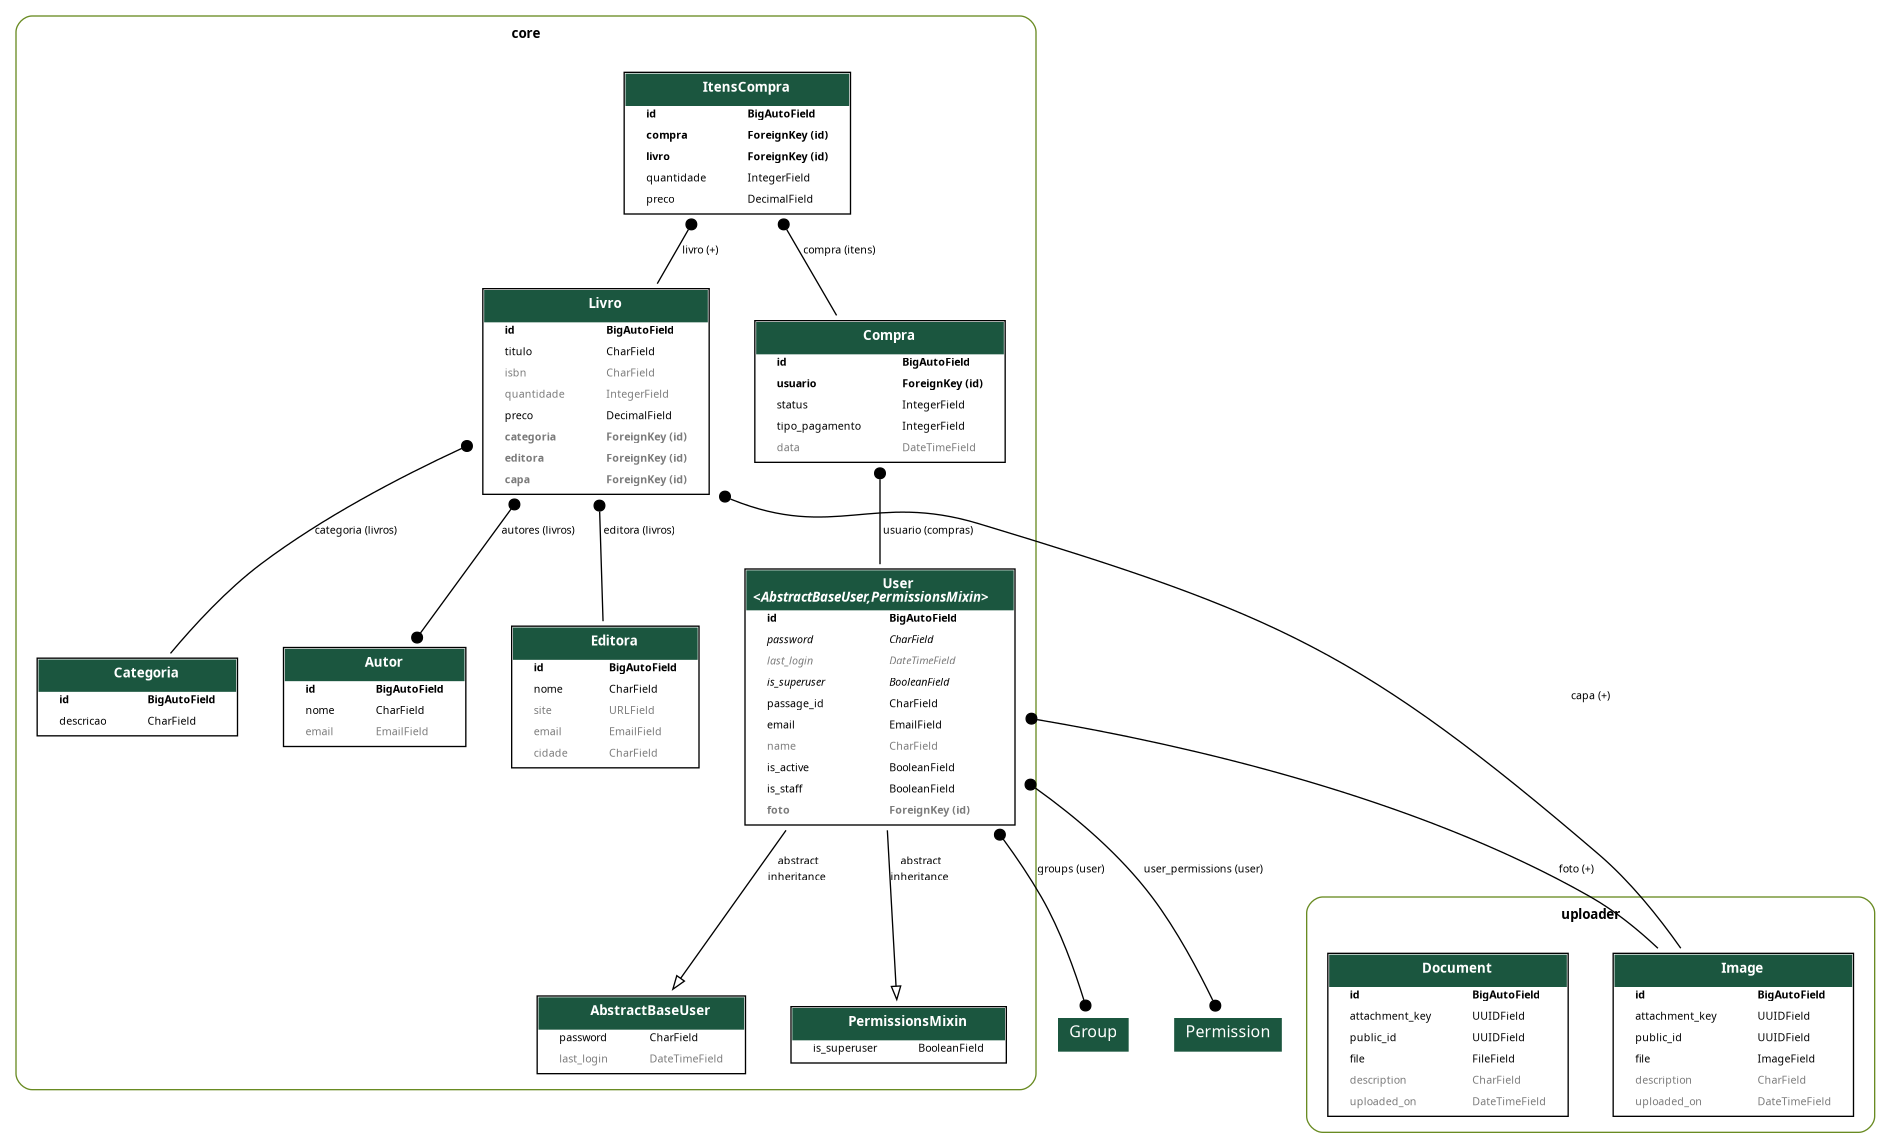
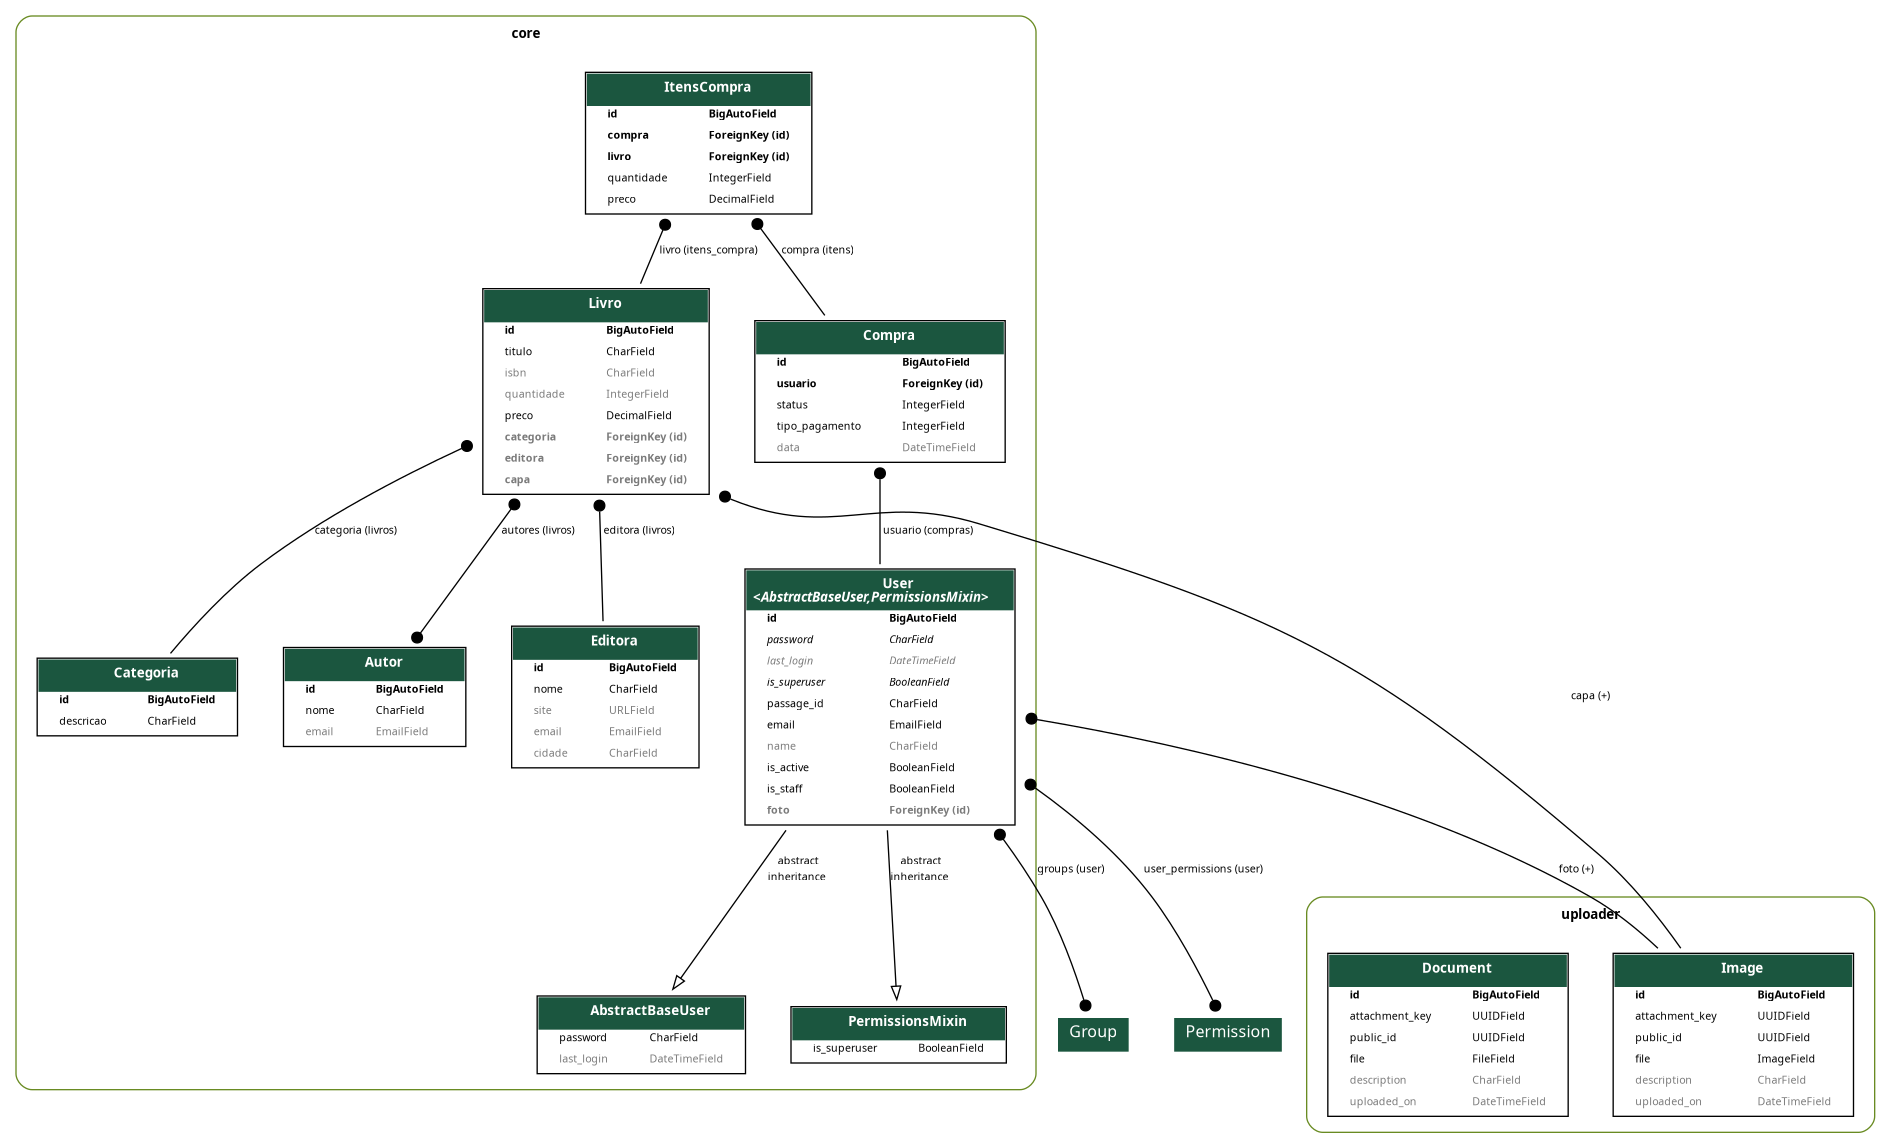
feat: #35d listando livros com mais de 10 cópias vendidas

Changed region(s): [[0.312, 0.061, 0.468, 0.2439]]

diff --git a/core/views/livro.py b/core/views/livro.py
@@ -1,3 +1,4 @@
+from django.db.models import Sum
 from drf_spectacular.utils import extend_schema
 from rest_framework import status
 from rest_framework.decorators import action
@@ -8,6 +9,7 @@ from core.models import Livro
 from core.serializers import (
     LivroAlterarPrecoSerializer,
     LivroListSerializer,
+    LivroMaisVendidoSerializer,
     LivroRetrieveSerializer,
     LivroSerializer,
 )
@@ -41,3 +43,26 @@ class LivroViewSet(ModelViewSet):
         return Response(
             {'detail': f'Preço do livro "{livro.titulo}" atualizado para {livro.preco}.'}, status=status.HTTP_200_OK
         )
+
+    @extend_schema(
+        summary="Lista os livros mais vendidos",
+        description="Retorna os livros que venderam mais de 10 unidades.",
+        responses={
+            200: LivroMaisVendidoSerializer(many=True)
+        },
+    )
+    @action(detail=False, methods=['get'])
+    def mais_vendidos(self, request):
+        livros = Livro.objects.annotate(
+            total_vendidos=Sum('itens_compra__quantidade')
+        ).filter(total_vendidos__gt=10).order_by('-total_vendidos')
+
+        serializer = LivroMaisVendidoSerializer(livros, many=True)
+
+        if not serializer.data:
+            return Response(
+                {"detail": "Nenhum livro excedeu 10 vendas."},
+                status=status.HTTP_200_OK
+            )
+
+        return Response(serializer.data, status=status.HTTP_200_OK)

diff --git a/core/migrations/0023_alter_compra_status_alter_itenscompra_livro.py b/core/migrations/0023_alter_compra_status_alter_itenscompra_livro.py
@@ -1,0 +1,24 @@
+# Generated by Django 5.2.1 on 2025-10-13 19:02
+
+import django.db.models.deletion
+from django.db import migrations, models
+
+
+class Migration(migrations.Migration):
+
+    dependencies = [
+        ('core', '0022_compra_tipo_pagamento'),
+    ]
+
+    operations = [
+        migrations.AlterField(
+            model_name='compra',
+            name='status',
+            field=models.IntegerField(choices=[(1, 'Carrinho'), (2, 'Finalizado'), (3, 'Pago'), (4, 'Entregue')], default=1),
+        ),
+        migrations.AlterField(
+            model_name='itenscompra',
+            name='livro',
+            field=models.ForeignKey(on_delete=django.db.models.deletion.PROTECT, related_name='itens_compra', to='core.livro'),
+        ),
+    ]

diff --git a/core/serializers/livro.py b/core/serializers/livro.py
@@ -1,5 +1,6 @@
 from rest_framework.serializers import (
     DecimalField,
+    IntegerField,
     ModelSerializer,
     Serializer,
     SlugRelatedField,
@@ -25,6 +26,14 @@ class LivroListSerializer(ModelSerializer):
     class Meta:
         model = Livro
         fields = ('id', 'titulo', 'preco')
+
+
+class LivroMaisVendidoSerializer(ModelSerializer):
+    total_vendidos = IntegerField()
+
+    class Meta:
+        model = Livro
+        fields = ['id', 'titulo', 'total_vendidos']
 
 
 class LivroRetrieveSerializer(ModelSerializer):

diff --git a/core/models/compra.py b/core/models/compra.py
@@ -35,7 +35,7 @@ class Compra(models.Model):
 
 class ItensCompra(models.Model):
     compra = models.ForeignKey(Compra, on_delete=models.CASCADE, related_name='itens')
-    livro = models.ForeignKey(Livro, on_delete=models.PROTECT, related_name='+')
+    livro = models.ForeignKey(Livro, on_delete=models.PROTECT, related_name='itens_compra')
     quantidade = models.IntegerField(default=1)
     preco = models.DecimalField(max_digits=7, decimal_places=2, default=0)
 

diff --git a/core/views/compra.py b/core/views/compra.py
@@ -92,7 +92,7 @@ class CompraViewSet(ModelViewSet):
                         "data base": inicio_mes,
                         "total_vendas": total_vendas,
                         "quantidade_vendas": quantidade_vendas,
-                        "ticket médio": total_vendas/quantidade_vendas,
+                        "ticket médio": total_vendas / quantidade_vendas,
                 },
                 status=status.HTTP_200_OK,
         )

diff --git a/core/serializers/__init__.py b/core/serializers/__init__.py
@@ -12,6 +12,7 @@ from .editora import EditoraSerializer
 from .livro import (
     LivroAlterarPrecoSerializer,
     LivroListSerializer,
+    LivroMaisVendidoSerializer,
     LivroRetrieveSerializer,
     LivroSerializer,
 )
